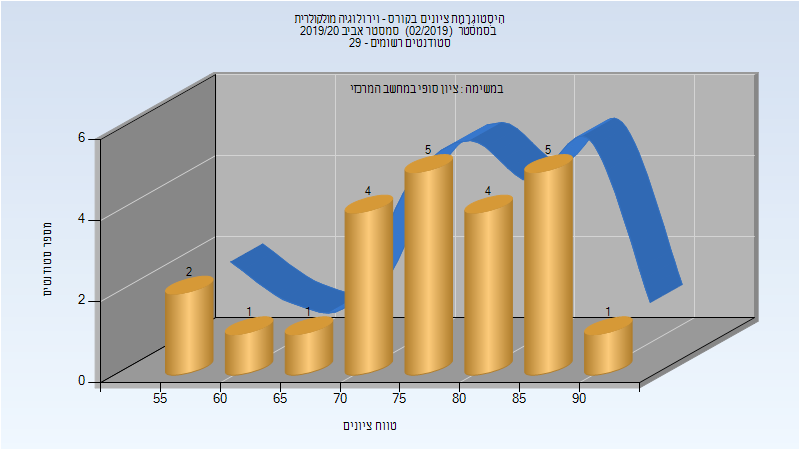
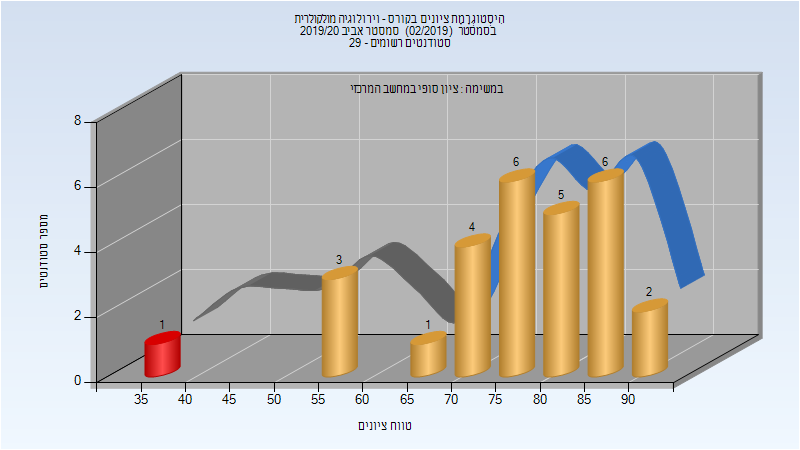
Deploy michael-maltsev/technion-histograms to github.com/michael-maltsev/technion-histograms.git:gh-pages

diff --git a/094412/index.html b/094412/index.html
@@ -1262,6 +1262,32 @@
 </tr>
 </tbody>
 </table>
+<h3>סופי מועד ב'</h3>
+<p><img src="201902/Final_B.png" alt="201902 Final_B" /></p>
+<table>
+<thead>
+<tr>
+<th>סטודנטים</th>
+<th>עברו/נכשלו</th>
+<th>אחוז עוברים</th>
+<th>ציון מינימלי</th>
+<th>ציון מקסימלי</th>
+<th>ממוצע</th>
+<th>חציון</th>
+</tr>
+</thead>
+<tbody>
+<tr>
+<td>152</td>
+<td>122/30</td>
+<td>80</td>
+<td>38</td>
+<td>100</td>
+<td>65.072</td>
+<td>64</td>
+</tr>
+</tbody>
+</table>
 <h3>סופי</h3>
 <p><img src="201902/Finals.png" alt="201902 Finals" /></p>
 <table>

diff --git a/324461/index.html b/324461/index.html
@@ -337,12 +337,12 @@
 </thead>
 <tbody>
 <tr>
-<td>76</td>
-<td>76/0</td>
+<td>75</td>
+<td>75/0</td>
 <td>100</td>
 <td>80</td>
 <td>100</td>
-<td>97.737</td>
+<td>97.707</td>
 <td>100</td>
 </tr>
 </tbody>

diff --git a/094412/README.md b/094412/README.md
@@ -396,6 +396,14 @@
 | ---- | ---- | ---- | ---- | ---- | ---- | ---- |
 | 197 | 182/15 | 92 | 40 | 100 | 75.371 | 77 |
 
+### סופי מועד ב'
+
+![201902 Final_B](201902/Final_B.png)
+
+| סטודנטים | עברו/נכשלו | אחוז עוברים | ציון מינימלי | ציון מקסימלי | ממוצע | חציון |
+| ---- | ---- | ---- | ---- | ---- | ---- | ---- |
+| 152 | 122/30 | 80 | 38 | 100 | 65.072 | 64 |
+
 ### סופי
 
 ![201902 Finals](201902/Finals.png)

diff --git a/324461/README.md b/324461/README.md
@@ -102,7 +102,7 @@
 
 | סטודנטים | עברו/נכשלו | אחוז עוברים | ציון מינימלי | ציון מקסימלי | ממוצע | חציון |
 | ---- | ---- | ---- | ---- | ---- | ---- | ---- |
-| 76 | 76/0 | 100 | 80 | 100 | 97.737 | 100 |
+| 75 | 75/0 | 100 | 80 | 100 | 97.707 | 100 |
 
 ## קיץ 2019
 
